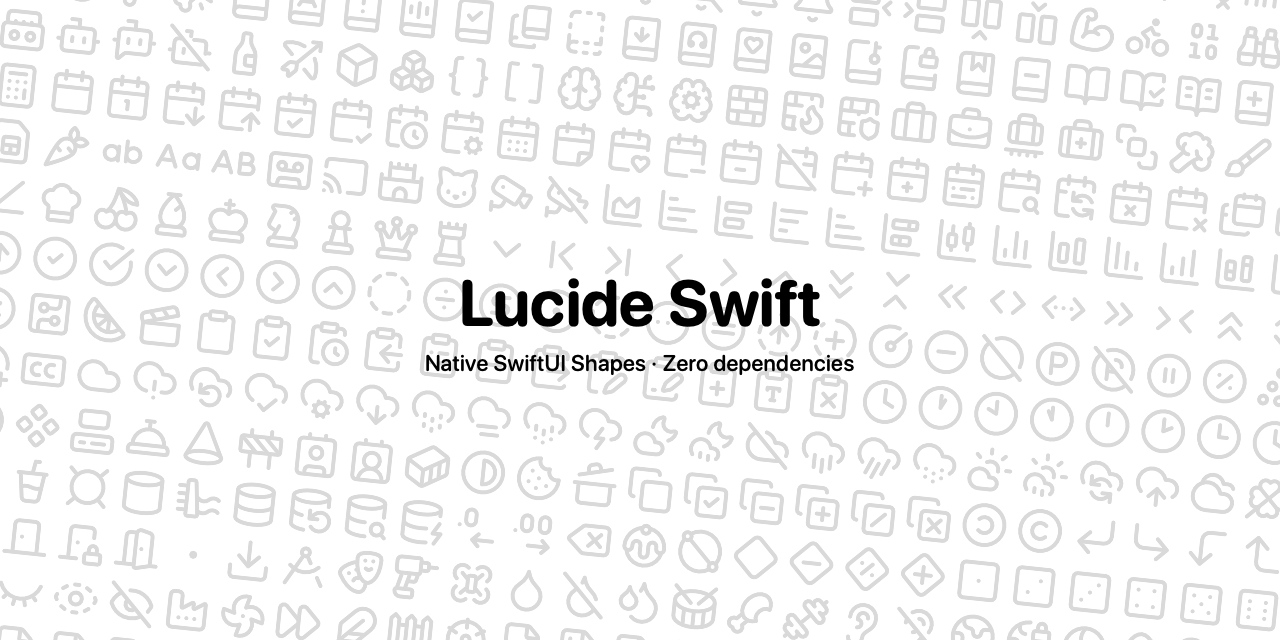
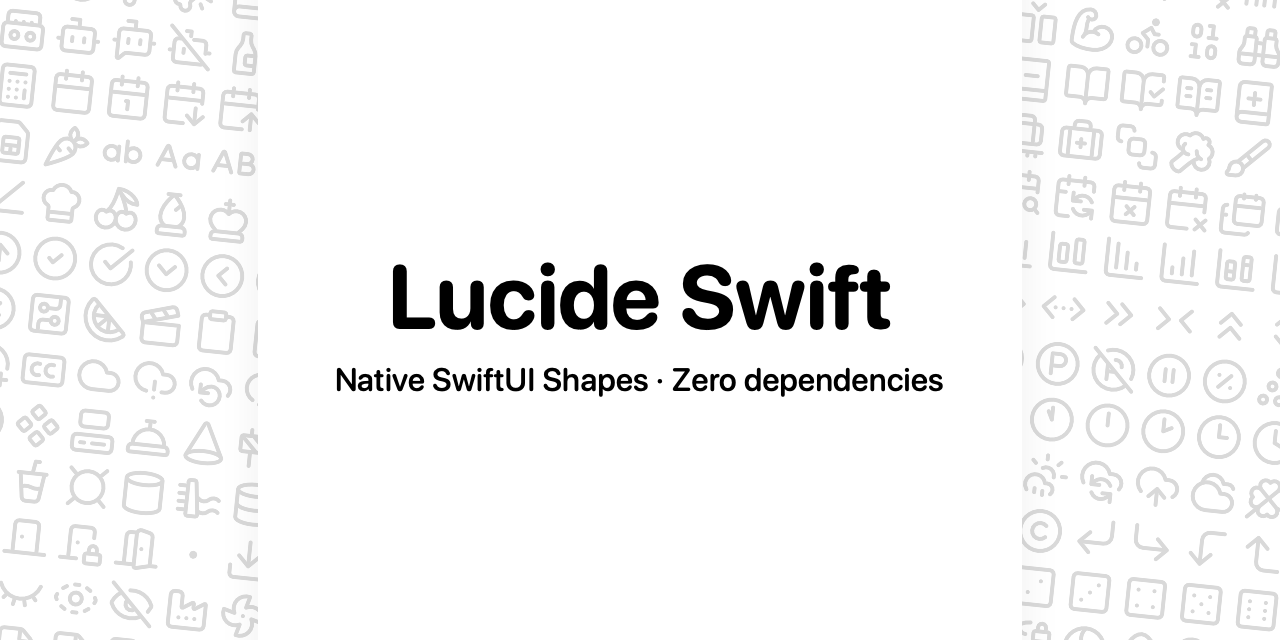
fix: larger text, white card with shadow behind branding
- Title size: 14% of canvas height (was 10%)
- Subtitle size: 5% of canvas height (was 3.5%)
- White rounded rectangle card behind text with subtle shadow
  for separation from the icon grid

Changed region(s): [[0.1875, 0.0, 0.8125, 1.0]]

diff --git a/Sources/PreviewGenerator/SocialPreview.swift b/Sources/PreviewGenerator/SocialPreview.swift
@@ -79,10 +79,10 @@ public struct SocialPreview: View {
     // MARK: - Branding
 
     private var brandingText: some View {
-        let titleSize = canvasHeight * 0.10
-        let subtitleSize = canvasHeight * 0.035
+        let titleSize = canvasHeight * 0.14
+        let subtitleSize = canvasHeight * 0.05
 
-        return VStack(spacing: canvasHeight * 0.015) {
+        return VStack(spacing: canvasHeight * 0.02) {
             Spacer()
             Text("Lucide Swift")
                 .font(.system(size: titleSize, weight: .bold, design: .rounded))
@@ -92,6 +92,14 @@ public struct SocialPreview: View {
                 .foregroundColor(.black)
             Spacer()
         }
+        .padding(.horizontal, canvasWidth * 0.06)
+        .padding(.vertical, canvasHeight * 0.05)
+        .background(
+            RoundedRectangle(cornerRadius: canvasHeight * 0.04)
+                .fill(.white)
+                .shadow(color: .black.opacity(0.06), radius: canvasHeight * 0.03)
+        )
+        .padding(canvasHeight * 0.05)
     }
 }
 
